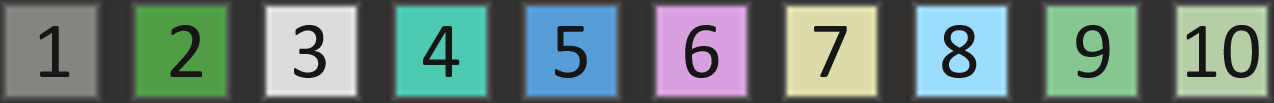
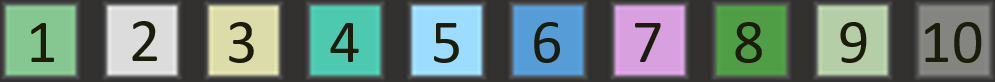
Updated color map

diff --git a/Code colorer/Code colorer.py b/Code colorer/Code colorer.py
@@ -1,5 +1,5 @@
-#classes, variables, keywords, if-for-return, methods, locals, structs, numbers
-##4dc9b0, #dcdcdc, #569cd6, #d8a0df, #dcdcaa, #9cdcfe, #86c691, #b5cea8
+#structs, variables, methods, classes, locals,  keywords, if/for,  comments, numbers, #line numbers        
+#9cdcfe,  #dcdcdc,   #dcdcaa, #4dc9b0, #86c691, #569cd6,  #d8a0df, #4F9E46,  #b5cea8, #848480              
 
 import pyautogui as auto; auto.PAUSE = 0.1
 import keyboard
